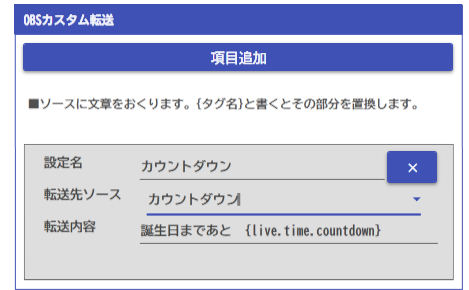
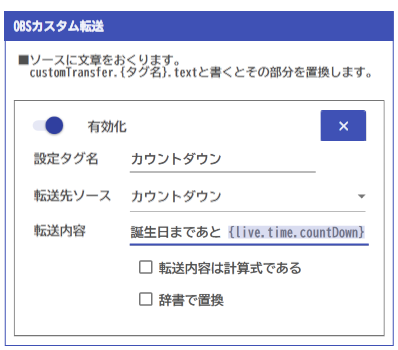
v1.0 beta 51

diff --git a/docs/link/link_use.md b/docs/link/link_use.md
@@ -28,6 +28,13 @@
 
 ![Alt text](../images/import_use_p05.png)
 
+## メインメニュー
+
+* 連携メニューはこのサブメニューからやることを選んで、設定していきます
+* 項目を増やすには〔＋〕をおします。
+
+![Alt text](../images/import_use_p17.png)
+
 ## タグの入力方法
 
 * 手入力してもいいですが、タグリストからドラック&ドロップすることで自動入力することができます。
@@ -74,14 +81,23 @@
 
 ![Alt text](../images/import_use_p08.png)
 
-### OBSカスタム転送
+### カスタム転送
 
 * 指定したOBSソースに指定した文章を送ります。
 * 転送内容、転送先ソース名にはタグが利用可能です。
 
 ![Alt text](../images/import_use_p10.png)
 
-### OBSカスタムアクション
+|項目|中身|
+|---|-----|
+|有効化|この設定を使うかを指定します|
+|タグ名|この設定に名前を付けます。タグとして保存されます|
+|転送先ソース|OBS転送先のソースを指定します。無くてもＯＫ|
+|転送内容|何を送るかを設定します。タグ、計算式がつかえます|
+|計算式である|計算させる場合にチェックします|
+|辞書で置換|辞書に定義があれば、その文字に置換してから転送します|
+
+### アクション
 
 * 条件が成立したらアクションを実施します
 * 判定条件には数式、タグが利用可能です
@@ -98,15 +114,22 @@
 |アクションは一度だけ|1度だけ反応します|
 |条件変化時のみ|条件が以前と変わったときに評価します|
 |再生終了時にアイテム非表示|再生が終わったらアイテムを非表示にします|
-|WordParty起動|WordPartyのアクションを起動します|
+|WordParty起動|WordPartyのアクションを起動します。WordPartyに設定している起動キーワード・記号をこちらに入れておきます|
 |わんコメ送付|わんコメのチャットに送ります|
 
+* 支援者モードの方は、下記の機能も使えます
+|項目|中身|
+|---|-----|
+|OSC|指定したアドレスへ、(string)の形式で文をおくります<br>* /chatbox/input にした場合のみ自動送信されます|
+|Neos VR|Neos向けに変換をかけてデータを送ります。変数名をCHとして指定してください|
+|XSOverlay|ＶＲ通知として送ります。|
+
 !!! Info "わんコメ送付について"
-    わんコメの枠に送る場合には、枠名を`Layna`としてください。まるっとれいなは、この枠名を検知してチャットを送るようになります。
+    わんコメの枠に送る場合には、わんコメ設定のページで枠名を設定してください。枠名とはわんコメで表示されるこの名前になります。
 
     ![Alt text](../images/import_use_p12.png)
 
-!!! Info "アクションリセット"
+!!! Info "アクション全リセット"
     アクションが行われるとこのボタンが押せるようになります。「アクションは1度だけ」となっている場合は、このボタンを押すことで再度アクションが行えるようになります。
 
     ![Alt text](../images/import_use_p13.png)
@@ -115,6 +138,12 @@
     条件が成立したら、`action.(タグ名).user.name`と`action.(タグ名).user.comment`が記録されます。
 
     ![Alt text](../images/import_use_p14.png)
+
+### 辞書
+
+* カスタム転送の設定値として、指定された文字と同じ文字があれば辞書の内容に置き換えます。
+* 機能はたとえば、レベルがあがるごとに表示名を変えるとか、そういうケースで活用します。
+
 
 ## ソースについて
 
@@ -127,3 +156,4 @@
 |テキスト|表示されるテキスト|
 |ブラウザ|ＵＲＬ・ファイル名|
 |メディア|ファイル名|
+

diff --git a/docs/dataset.md b/docs/dataset.md
@@ -1,0 +1,66 @@
+!!! Info "前提条件"
+    * OBSにつないでから実施した方が圧倒的に快適です
+
+## 設定データを作る
+
+* その処理でどの様なデータを送るかを決めるものです。
+* いわば、「画面に何を設定してほしいか」を設定するものだとおもってください
+
+![画像](images/dataset_p01.png)
+
+|項目|意味|
+|---|------|
+|設定名|見た目で分かる設定の名前を付けます|
+|シーン|その設定を送るときに表示するシーンの名前を付けます|
+|トランジション|切り替え時の表示効果を選びます|
+|アクション|この時にOBSがおこなう動作を設定します<br>・レコーディングバッファON/OFF<br>・プレイバック（今～3回前）<br>・プレイバック終了<br>・プレイバックセーブ<br>・ストリーミング開始、終了|
+|有効|その設定項目を反映するかどうか|
+|シーン|反映するシーン先|
+|送信先ソース|対象となるソース名|
+|書き込みファイル名|OBSファイル連携時に、そのファイル名にデータを書きます|
+|表示|そのソースを表示するかどうか|
+|設定値|表示する内容<br>・テキストソース：文章<br>・ブラウザ：URL<br>・画像、動画ソース：メディアファイル|
+
+* 「＋」で項目を作り、設定を入れます。
+* 「ー」で項目を削除できます。
+* 「送信」で試し送信ができます。
+
+## パネルに割り当てる
+
+* 実際に運用するときに使うパネルになります
+
+![画像](images/dataset_p02.png)
+
+!!! Tips "編集時にはモードを切り替えます"
+    * 右下のモードを切り替えることで、編集と運用を切り替えます
+    * 運用モード時は、ボタンを押すと実際にOBSに設定が送信されます
+
+* 設定をするには、下記の方法でおこないます。
+    * 1) モードを登録モードにかえます
+    * 2) データもしくはシーケンスを選びます。
+    * 3) プルダウンの中から割り付けたい設定を選びます。
+    * 4) 割り付けたいボタンを押します
+    * 5) パネルを右クリックして、色を選びます
+    * 6 モードを運用モードに戻します
+
+## ショートカット登録
+
+![画像](images/dataset_p03.png)
+
+* このキーを押したときに、設定を有効にします。
+
+|項目|意味|
+|---|------|
+|DirectSend|直接送信|
+|Foward|設定データを1つ進める|
+|Reverse|設定データを1つ戻す|
+|PlaybackSave|プレイバックデータを保存|
+|PlaybackStart0|現在のプレイバックデータを再生|
+|PlaybackStart1|1つ前のプレイバックデータを再生|
+|PlaybackStart2|2つ前のプレイバックデータを再生|
+|PlaybackStart3|3つ前のプレイバックデータを再生|
+|PlaybackStop|プレイバックの再生を終了|
+|R1C1|上から１つめ、左から１つ目のパネルに割り当てられたものを起動|
+|R1C5|上から１つめ、左から５つ目のパネルに割り当てられたものを起動|
+|R2C1|上から２つめ、左から１つ目のパネルに割り当てられたものを起動|
+|R3C5|上から３つめ、左から５つ目のパネルに割り当てられたものを起動|

diff --git a/docs/calc/calc_tag.md b/docs/calc/calc_tag.md
@@ -46,14 +46,14 @@
 |  action.〔設定〕.user.name| カスタムアクション(〔設定〕)成立時のユーザ名|
 |  action.〔設定〕.user.comment| カスタムアクション(〔設定〕)成立時のコメント|
 |  comment.count| コメント総数|
-|  comment.firssTime.count| 初見さん数|
-|  comment.firstTime.names| 初見さんリスト|
-|  comment.uniqueUser.names| 全コメントユーザ名|
-|  comment.uniqueUser.count| コメントしたユニークユーザ数|
-|  comment.gift.names| 全ギフトユーザ名|
-|  comment.gift.count| ギフトしたユニークユーザ数|
-|  comment.member.names| コメントした全メンバーユーザ名|
-|  comment.member.count| コメントした全メンバーユーザ数|
+|  comment.firstTime.uniqueNames| 初見さんリスト|
+|  comment.firssTime.uniqueCount| 初見さん数|
+|  comment.uniqueUser.uniqueNames| 全コメントユーザ名|
+|  comment.uniqueUser.uniqueCount| コメントしたユニークユーザ数|
+|  comment.gift.uniqueNames| 全ギフトユーザ名|
+|  comment.gift.uniqueCount| ギフトしたユニークユーザ数|
+|  comment.member.uniqueNames| コメントした全メンバーユーザ名|
+|  comment.member.uniqueCount| コメントした全メンバーユーザ数|
 |  survey.isEnabled| アンケート中かどうか(配信中ならソースを表示)|
 |  waitingList.joinWord| 参加キーワード|
 |  waitingList.declineWord| 辞退キーワード|
@@ -121,3 +121,4 @@
 |  ync.〔話者名〕.〔n〕.inHiragana| 話者文にひらがなを含むか （n番目の言語)|
 |  ync.〔話者名〕.〔n〕.inKatakana| 話者文にカタカナを含むか （n番目の言語)|
 |  ync.〔話者名〕.〔n〕.language| 話者別文章の言語名 （n番目の言語)|
+|  customTransfer.〔Tag〕.text| カスタム転送文|

diff --git a/docs/system_info.md b/docs/system_info.md
@@ -6,6 +6,11 @@
 * あるがままの状態で提供され、いかなる損害に関しても補償はありません。
 * 更新版は[配布サイト](https://vtool.booth.pm/items/5067032)で配布します。
 * 開発部品として、他のライセンスを適用している場合があります。各社に帰属するものは、各社のライセンスのもと運用されます。
+* フリー版をご利用の方は、配信ページなどに「まるっとれいな」を使っている旨の表記が必要です。
+
+## 支援版での利用
+
+* ゆかりねっとコネクターの支援者の方は、支援コードを登録することで支援モードを利用できるほか、上記「まるっとれいなを使っている表記が必要」の条項が免除となります。
 
 ## 企業での利用
 
